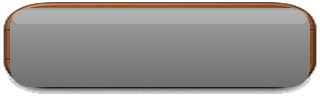
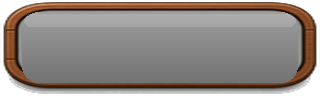
Restore wood-rim buttons and two-line costs on card A
Keep the percent-based button widths; stack verb above live cost
again; rebuild chrome with thicker Holzränder so the frame stays
visible at rail size.

Changed region(s): [[0.0312, 0.0625, 0.9688, 0.9062]]

diff --git a/docs/mockups/personen-action-card/index.html b/docs/mockups/personen-action-card/index.html
@@ -151,23 +151,23 @@
   .cost-btn.upgrade { background-image: url("btn-upgrade-chrome.png"); }
   .cost-btn.senden { background-image: url("btn-senden-chrome.png"); }
 
+  /* Zwei Zeilen: Verb oben, Kosten unten — Holzränder über dicke Chrome-Rims */
   .cost-btn .inner {
     width: 100%;
     height: 100%;
     display: flex;
-    flex-direction: row;
+    flex-direction: column;
     flex-wrap: nowrap;
     align-items: center;
     justify-content: center;
     gap: 0.28em;
-    padding: 0 6%;
+    padding: 18% 16% 16%; /* Text innerhalb der Farbfläche, nicht auf dem Holzrand */
     color: #fff;
     font-weight: 900;
     font-family: inherit;
     text-shadow: 0 1px 1px rgba(0,0,0,.55);
     container-type: inline-size;
-    /* dynamisch an Button-Breite — eng genug für „UPGRADE 🪙22“ in 30%-Spalte */
-    font-size: clamp(8px, 11cqw, 14px);
+    font-size: clamp(9px, 12cqw, 14px);
     overflow: hidden;
   }
   .cost-btn .txt,
@@ -175,7 +175,7 @@
     font-size: 1em;
     font-weight: inherit;
     font-family: inherit;
-    letter-spacing: 0;
+    letter-spacing: .02em;
     line-height: 1;
     white-space: nowrap;
   }
@@ -189,11 +189,11 @@
   .cost-btn .pay {
     display: inline-flex;
     align-items: center;
-    gap: 0.18em;
+    gap: 0.2em;
   }
   .cost-btn .pay img {
-    width: 1.1em;
-    height: 1.1em;
+    width: 1.15em;
+    height: 1.15em;
     object-fit: contain;
     flex: 0 0 auto;
   }
@@ -231,9 +231,9 @@
     <a href="compare.html">Vergleich A/B</a>
   </p>
   <p class="note">
-    Grid überall <code>3%·30%·2%·30%·2%·30%·3%</code> → Kauf/Upgrade/Send bündig übereinander
-    (Dual lässt die Send-Spalte leer). Getrimmtes Holz-Chrome ohne Transparent-Ränder.
-    Verb + Kosten eine Zeile, gleiche Schrift (<code>cqw</code> am Innen-Wrapper). Kein gelber Auswahlrahmen.
+    Grid überall <code>3%·30%·2%·30%·2%·30%·3%</code> → Spalten bündig.
+    Holzrahmen-Chrome mit sichtbaren Holzrändern. Verb oben, Kosten darunter (zwei Zeilen).
+    Schrift dynamisch (<code>cqw</code>); bei schmalen Zellen Kurzlabels.
   </p>
 
   <div class="stage">
@@ -287,8 +287,7 @@
         </div>
       </article>
       <div class="legend">
-        Gleiches %-Grid auf jeder Karte · Dual = Send-Spalte leer (bündig).<br>
-        Verb+Kosten eine Zeile · Schrift dynamisch · kein gelber Rahmen.
+        %-Grid bündig · Holzränder · Verb / Kosten zweizeilig · Schrift dynamisch.
       </div>
     </div>
   </div>
